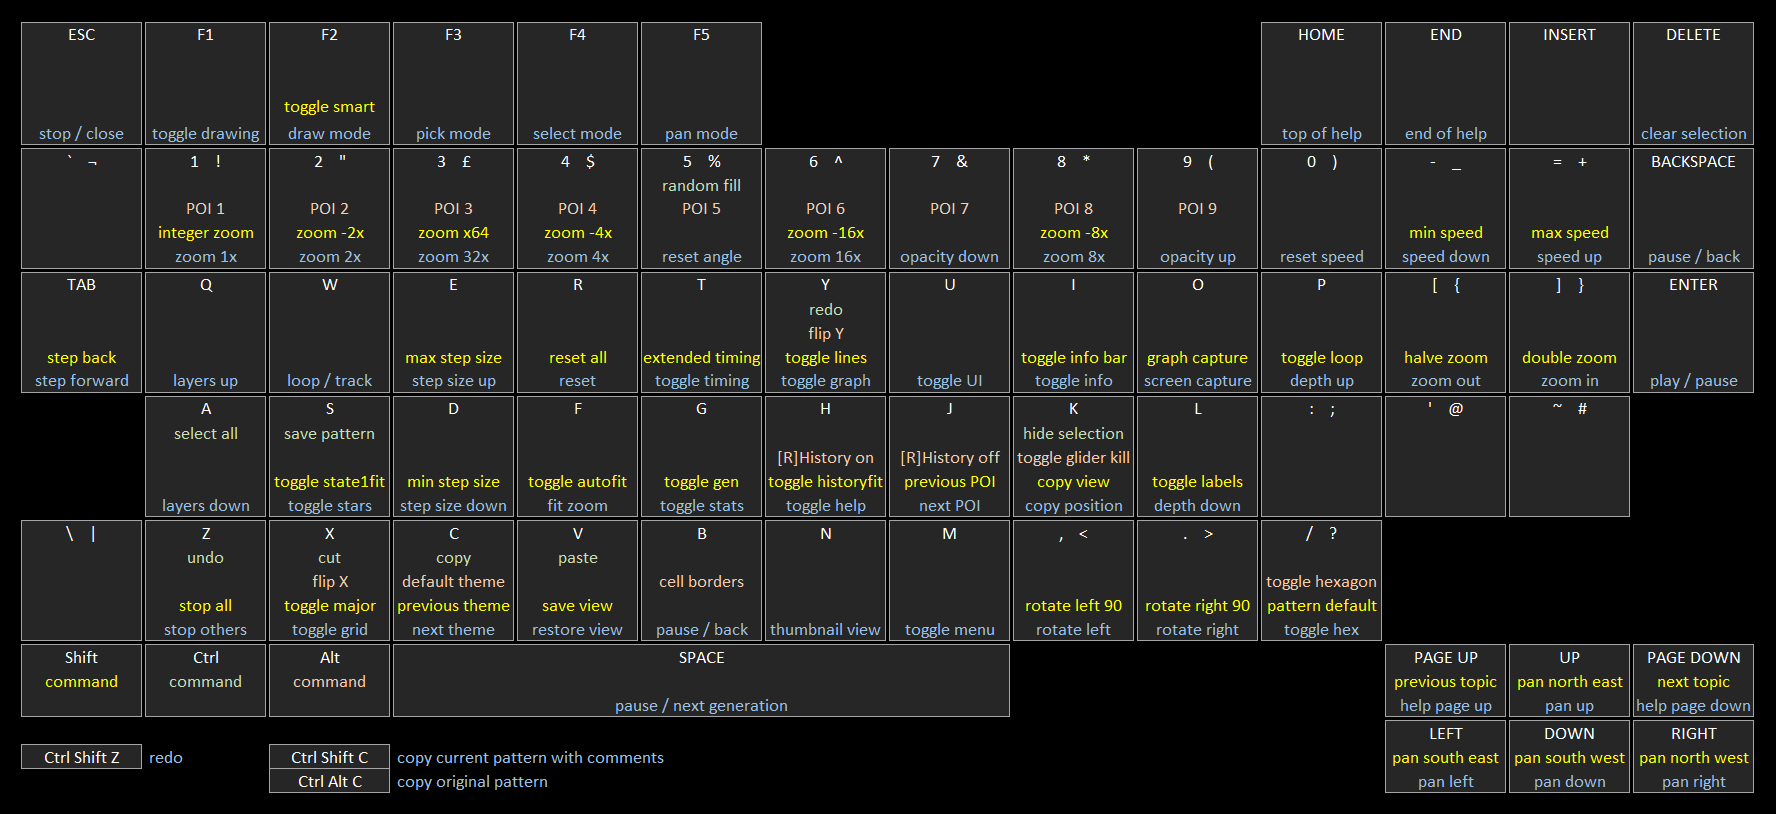
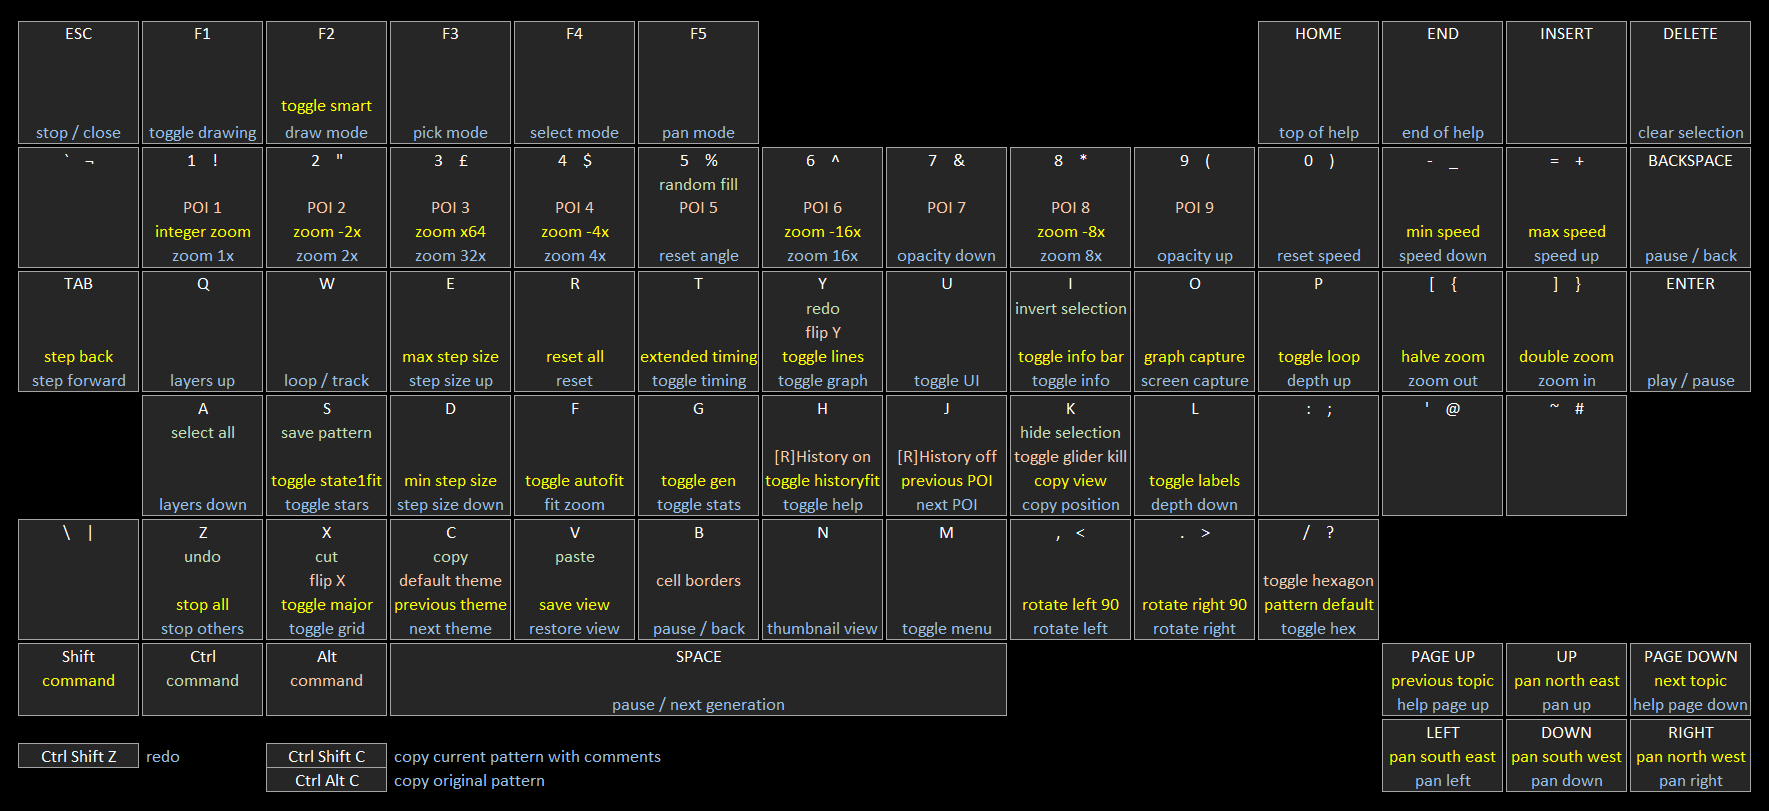
added invert selection button, fixed selecting in bounded grids, fixed popcount at generation 0 while editing with stats off

diff --git a/js/lifeview.js b/js/lifeview.js
@@ -215,7 +215,7 @@
 		/** @const {string} */ versionName : "LifeViewer",
 
 		// build version
-		/** @const {number} */ versionBuild : 357,
+		/** @const {number} */ versionBuild : 358,
 
 		// author
 		/** @const {string} */ versionAuthor : "Chris Rowett",
@@ -6093,6 +6093,9 @@
 			// selection box
 		var box = me.selectionBox,
 
+			// flag if off the grid
+			offGrid = false,
+
 			// offset to middle of grid
 			xOff = (me.engine.width >> 1) - (me.patternWidth >> 1),
 			yOff = (me.engine.height >> 1) - (me.patternHeight >> 1),
@@ -6120,12 +6123,21 @@
 				// check if there is a selection being drawn
 				if (!me.drawingSelection) {
 					if (x !== me.selectStartX || y !== me.selectStartY) {
-						// create a selection
-						me.drawingSelection = true;
-						box.leftX = me.cellX - xOff;
-						box.rightX = box.leftX;
-						box.bottomY = me.cellY - yOff;
-						box.topY = box.bottomY;
+						offGrid = false;
+						// check if the cell is inside any bounded grid
+						if (me.engine.boundedGridType !== -1) {
+							if (me.cellX < leftX || me.cellX > rightX || me.cellY < bottomY || me.cellY > topY) {
+								offGrid = true;
+							}
+						}
+						if (!offGrid) {
+							// create a selection
+							me.drawingSelection = true;
+							box.leftX = me.cellX - xOff;
+							box.rightX = box.leftX;
+							box.bottomY = me.cellY - yOff;
+							box.topY = box.bottomY;
+						}
 					}
 				} else {
 					// extend selection
@@ -6136,6 +6148,8 @@
 				// check grid for growth
 				if (me.drawingSelection) {
 					me.checkSelectionSize(me);
+					xOff = (me.engine.width >> 1) - (me.patternWidth >> 1);
+					yOff = (me.engine.height >> 1) - (me.patternHeight >> 1);
 				}
 
 				// clip to bounded grid if specified
@@ -6147,29 +6161,35 @@
 					topY -= yOff;
 
 					// test against grid boundaries
-					if (box.leftX < leftX) {
-						box.leftX = leftX;
+					if (box.leftX < box.rightX) {
+						if (box.leftX < leftX) {
+							box.leftX = leftX;
+						}
+						if (box.rightX > rightX) {
+							box.rightX = rightX;
+						}
+					} else {
+						if (box.rightX < leftX) {
+							box.rightX = leftX;
+						}
+						if (box.leftX > rightX) {
+							box.leftX = rightX;
+						}
 					}
-					if (box.leftX > rightX) {
-						box.rightX = rightX;
-					}
-					if (box.rightX < leftX) {
-						box.rightX = leftX;
-					}
-					if (box.rightX > rightX) {
-						box.rightX = rightX;
-					}
-					if (box.bottomY < bottomY) {
-						box.bottomY = bottomY;
-					}
-					if (box.bottomY > topY) {
-						box.bottomY = topY;
-					}
-					if (box.topY < bottomY) {
-						box.topY = bottomY;
-					}
-					if (box.topY > topY) {
-						box.topY = topY;
+					if (box.bottomY < box.topY) {
+						if (box.bottomY < bottomY) {
+							box.bottomY = bottomY;
+						}
+						if (box.topY > topY) {
+							box.topY = topY;
+						}
+					} else {
+						if (box.topY < bottomY) {
+							box.topY = bottomY;
+						}
+						if (box.bottomY > topY) {
+							box.bottomY = topY;
+						}
 					}
 				}
 			}
@@ -7140,9 +7160,14 @@
 			saveRightX = 0,
 			saveTopY = 0,
 			states = me.engine.multiNumStates,
-			invertForGenerations = (states > 2 && !me.engine.isNone),
-			xOff = (me.engine.width >> 1) - (me.patternWidth >> 1),
-			yOff = (me.engine.height >> 1) - (me.patternHeight >> 1);
+			/** @type {boolean} */ rotateFits = true,
+			/** @type {boolean} */ invertForGenerations = (states > 2 && !me.engine.isNone),
+		    /** @type {number} */ leftX = Math.round((me.engine.width - me.engine.boundedGridWidth) / 2),
+		    /** @type {number} */ bottomY = Math.round((me.engine.height - me.engine.boundedGridHeight) / 2),
+		    /** @type {number} */ rightX = leftX + me.engine.boundedGridWidth - 1,
+			/** @type {number} */ topY = bottomY + me.engine.boundedGridHeight - 1,
+			/** @type {number} */ xOff = (me.engine.width >> 1) - (me.patternWidth >> 1),
+			/** @type {number} */ yOff = (me.engine.height >> 1) - (me.patternHeight >> 1);
 
 		// check for selection
 		if (me.isSelection) {
@@ -7191,9 +7216,22 @@
 				box.topY = swap;
 			}
 
-			// check if rotation has grown the grid and was clipped
-			if (me.checkSelectionSize(me)) {
-				me.menuManager.notification.notify("Rotation does not fit on grid", 15, 180, 15, true);
+			// check if rotation fits in bounded grid if specified
+			if (me.engine.boundedGridType !== -1) {
+				if (box.leftX + xOff < leftX || box.rightX + xOff > rightX || box.bottomY + yOff < bottomY || box.topY + yOff > topY) {
+					me.menuManager.notification.notify("Rotation does not fit in bounded grid", 15, 180, 15, true);
+					rotateFits = false;
+				}
+			} else {
+				// check if rotation has grown the grid and was clipped
+				if (me.checkSelectionSize(me)) {
+					me.menuManager.notification.notify("Rotation does not fit on grid", 15, 180, 15, true);
+					rotateFits = false;
+				}
+			}
+
+			// if rotation does not fit then restore original selection box
+			if (!rotateFits) {
 				box.leftX = saveLeftX;
 				box.bottomY = saveBottomY;
 				box.rightX = saveRightX;
@@ -7559,12 +7597,8 @@
 			if (me.statsOn) {
 				// see if any cells are alive
 				if (me.engine.anythingAlive) {
-					// if at zero then used save position
-					if (me.engine.counter === 0) {
-						me.engine.population = me.engine.resetSnapshot.population;
-						me.engine.births = me.engine.resetSnapshot.births;
-						me.engine.deaths = me.engine.resetSnapshot.deaths;
-					} else {
+					// if at zero then population will be current
+					if (me.engine.counter > 0) {
 						// check for Generations or HROT rule
 						if (me.engine.multiNumStates === -1) {
 							// go to previous generation

diff --git a/js/keys.js b/js/keys.js
@@ -1268,33 +1268,38 @@
 
 			// i for display information
 			case 73:
-				// check for shift key
-				if (event.shiftKey) {
-					// toggle infobar
-					me.infoBarButton.current = me.viewInfoBarToggle([!me.infoBarEnabled], true, me);
+				// check for ctrl key
+				if (event.ctrlKey) {
+					me.invertSelectionPressed(me);
 				} else {
-					// check if help displayed
-					if (me.displayHelp) {
-						// check if on the info topic
-						if (me.helpTopic === ViewConstants.informationTopic) {
-							// close help
-							me.displayHelp = 0;
-						} else {
-							// switch to the information topic
-							me.setHelpTopic(ViewConstants.informationTopic, me);
-						}
+					// check for shift key
+					if (event.shiftKey) {
+						// toggle infobar
+						me.infoBarButton.current = me.viewInfoBarToggle([!me.infoBarEnabled], true, me);
 					} else {
-						// do not display information if in thumbnail mode
-						if (!me.thumbnail) {
-							me.setHelpTopic(ViewConstants.informationTopic, me);
+						// check if help displayed
+						if (me.displayHelp) {
+							// check if on the info topic
+							if (me.helpTopic === ViewConstants.informationTopic) {
+								// close help
+								me.displayHelp = 0;
+							} else {
+								// switch to the information topic
+								me.setHelpTopic(ViewConstants.informationTopic, me);
+							}
+						} else {
+							// do not display information if in thumbnail mode
+							if (!me.thumbnail) {
+								me.setHelpTopic(ViewConstants.informationTopic, me);
+							}
 						}
+	
+						// update the help UI
+						me.helpToggle.current = me.toggleHelp([me.displayHelp], true, me);
+						me.menuManager.toggleRequired = true;
 					}
-
-					// update the help UI
-					me.helpToggle.current = me.toggleHelp([me.displayHelp], true, me);
-					me.menuManager.toggleRequired = true;
 				}
-
+	
 				break;
 
 			// Esc to close help and clear error messages or pause playback

diff --git a/js/help.js b/js/help.js
@@ -748,6 +748,7 @@
 		y = this.renderHelpLine(view, "F4", "select mode", ctx, x, y, height, helpLine);
 		y = this.renderHelpLine(view, "F5", "pan mode", ctx, x, y, height, helpLine);
 		y = this.renderHelpLine(view, "Ctrl A", "select all", ctx, x, y, height, helpLine);
+		y = this.renderHelpLine(view, "Ctrl I", "invert selection", ctx, x, y, height, helpLine);
 		y = this.renderHelpLine(view, "Ctrl K", "remove selection", ctx, x, y, height, helpLine);
 		y = this.renderHelpLine(view, "Ctrl S", "save pattern", ctx, x, y, height, helpLine);
 		y = this.renderHelpLine(view, "Ctrl V", "paste", ctx, x, y, height, helpLine);
